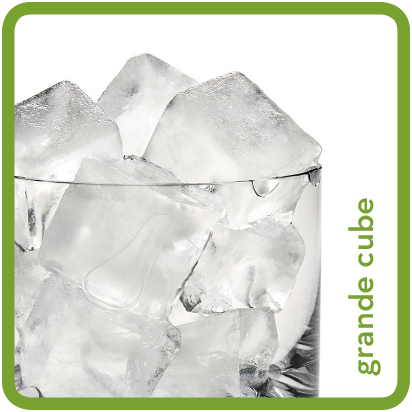
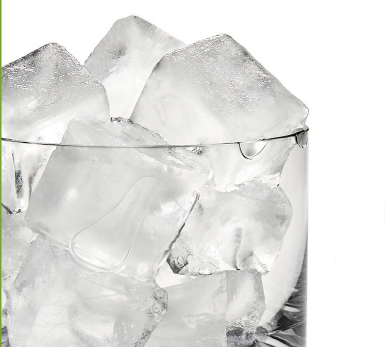
new cube borders

diff --git a/index.html b/index.html
@@ -102,11 +102,11 @@
           </div>
           <div class="third-width">
             <h3>Grande Cubes</h3>
-            <img src="img/grande-cube-300.png" alt="ice cubes in a glass"/>
+            <img src="img/grande-cube-crop.png" alt="ice cubes in a glass"/>
           </div>
           <div class="third-width">
             <h3>Full Cubes</h3>
-            <img src="img/full-cube.png" alt="ice cubes in a glass"/>
+            <img src="img/full-cube-crop.png" alt="ice cubes in a glass"/>
           </div>
           <div class="third-width">
             <h3>Half Cubes</h3>

diff --git a/css/main.css b/css/main.css
@@ -165,6 +165,12 @@ nav ul li {
   padding-top: 20px;
 }
 
+#cubes img {
+  border: 10px solid #0053a0;
+  border-radius: 60px;
+
+}
+
 /*****CONTACT*****/
 #contact {
   padding-top: 20px;
